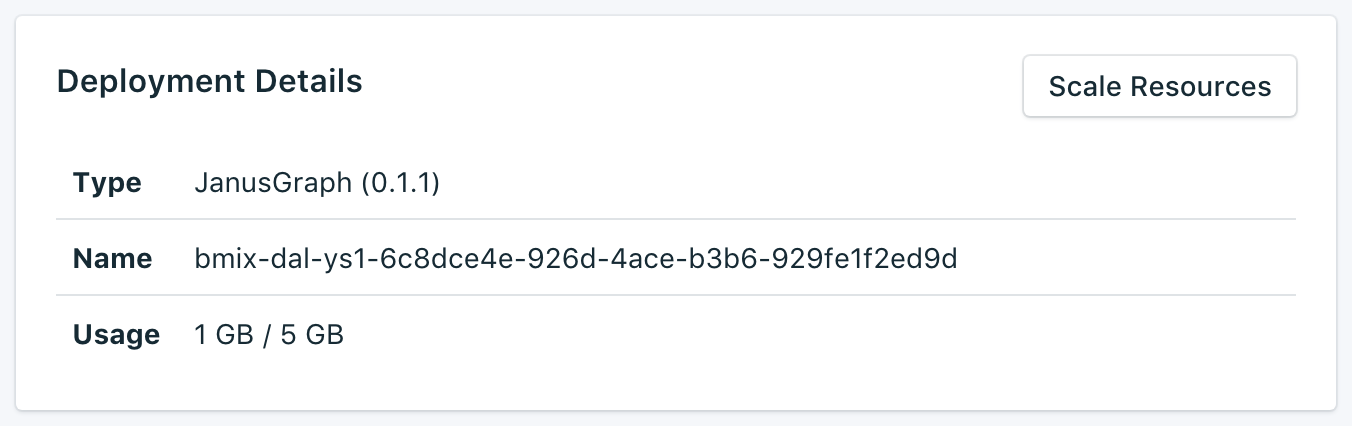
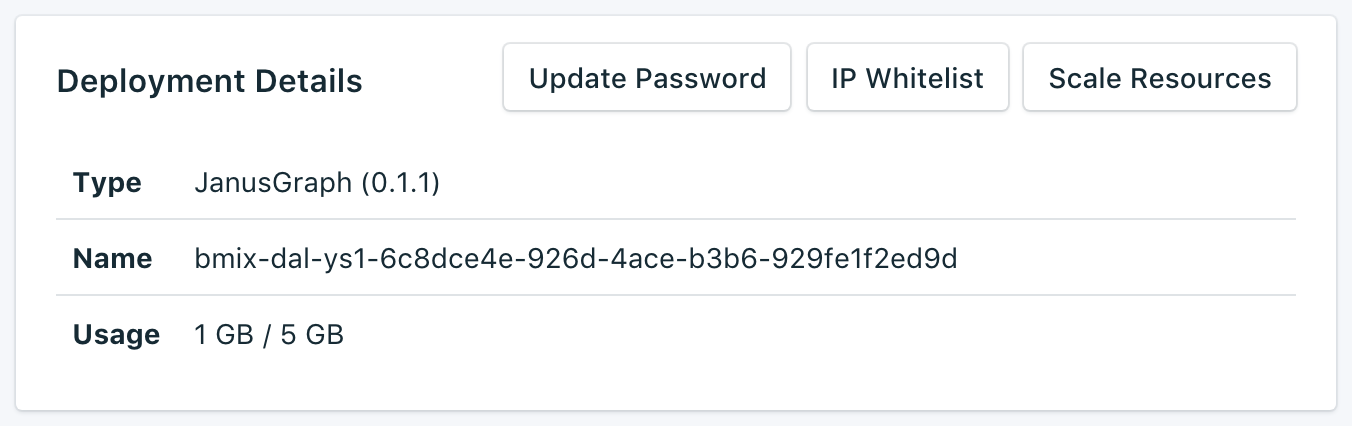
Oct 17 updates

Changed region(s): [[0.3728, 0.0915, 0.963, 0.2746], [0.3728, 0.1526, 0.7456, 0.2136]]

diff --git a/dashboard-whitelists.md b/dashboard-whitelists.md
@@ -1,0 +1,36 @@
+---
+
+Copyright:
+  Years: 2017
+lastupdated: "2017-10-16"
+---
+
+{:new_window: target="_blank"}
+{:shortdesc: .shortdesc}
+{:screen: .screen}
+{:codeblock: .codeblock}
+{:pre: .pre}
+
+# Whitelists
+
+If you want to restict access to your databases, you can whitelist specific ip addresses or ranges of ip addresses on your service. When there are no IP addresses in the whitelist, the whitelist is disabled and the deployment will accept connections from any system on the internet.
+
+![Whitelisting IPs](./images/janusgraph-whitelist-show.png "The whitelist fields.")
+
+## IP Addresses
+The *IP* field can take a single complete IPv4 address or IPv6 address with or without a netmask. Without a netmask, incoming connections must come from exactly that IP address. 
+
+Note that although the IP entry allows for IPv6, no Compose deployments are currently available to IPv6 networking and so these addresses cannot be filtered on.
+
+## Netmasks
+To allow a connection from a specified range of IP addresses, use a netmask. The IP address must be fully specified when using a netmask. That means entering, for example, 192.168.1.0/24 rather than 192.168.1/24.
+
+## Description
+The *Description* can be any user-significant text for identifying the whitelist entry - a customer name, project identifier or employee number, for example. The description field is required.
+
+## Compose Services
+We automatically add whitelist entries to Compose's servers to allow them to connect.
+
+## Removal
+To remove an IP address or netmask from the Whitelist, click the *Remove* entry displayed next to it.
+When all entries on the whitelist are removed, the whitelist will be disabled and all IP addresses will be accepted by the TCP access portals.

diff --git a/dashboard-update-service-password.md b/dashboard-update-service-password.md
@@ -1,0 +1,30 @@
+---
+
+Copyright:
+  Years: 2017
+lastupdated: "2017-10-16"
+---
+
+{:new_window: target="_blank"}
+{:shortdesc: .shortdesc}
+{:screen: .screen}
+{:codeblock: .codeblock}
+{:pre: .pre}
+
+# Updating the Service Password
+
+You might find it necessary to change the password of your service. You can do so using _Update Password_. 
+
+A new, randomly generated password will appear, or you can type your own password into the field. To regenerate another password, click on the dice to the right of the field. 
+  
+![Updating the etcd password](./images/janusgraph-update-password.png "The automatic password generator")
+
+The changes take effect when you click on the **Update Password** button. This will change the credentials that you and your services use to connect and is a part of your service's connection string. The _Deployment Details_ pane will show the progress of the job that is now in progress:
+
+![Update password job running](./images/janusgraph-update-password-running.png "The Deployment Details pane, showing one running job: Change JanusGraph password running")
+
+## Updating Connected Applications
+Changing the password will invalidate the existing connection string and generate a new one. This will cause a service interruption until connected applications are updated with the new connection string. You will have to do this by suppling the new connection string to your applications.
+
+More information on connecting your applications is in [Connecting a Bluemix Application](./connecting-bluemix-app.html).
+and [Connecting an external application](./connecting-external.html).

diff --git a/dashboard-backups.md b/dashboard-backups.md
@@ -2,7 +2,7 @@
 
 copyright:
   years: 2017
-lastupdated: "2017-09-07"
+lastupdated: "2017-10-16"
 ---
 
 {:new_window: target="_blank"}
@@ -27,10 +27,12 @@ Daily backups of your database are automatically scheduled. To view your existin
 
   ![Available backups](./images/janusgraph-backups-show.png "A list of available backups, including a pending backup")
 
+Click on the corresponding row to expand the options for any available backup.
+  ![Backup Options](./images/janusgraph-backups-options.png "Options for a backup.") 
+
 ## Creating a manual backup
 
 As well as scheduled backups you can create a backup manually. To create a manual backup, follow the steps to view existing backups, then click **Back up now** above the list of available backups. A message is displayed to let you know that a backup has been initiated, and a 'pending' backup is added to the list of available backups.
 
-## Downloading a backup
-
-To download a backup, follow the steps to view existing backups, then click **Download** in the corresponding row for the backup you want to download.
+## Restoring a backup
+To restore a backup to a new service instance, follow the steps to view existing backups, then click in the corresponding row to expand the options for the backup you want to download. Click on the **Restore** button. A message is displayed to let you know that a restore has been initiated. The new service instance will automatically be named "janusgraph-restore-[timestamp]", and appears on your dashboard when provisioning starts.

diff --git a/index.md b/index.md
@@ -27,7 +27,7 @@ When you provision your service instance, you can choose the *Standard* or *Ente
 
 ## Managing Compose for JanusGraph
 
-You can manage your service from the service dashboard. Here you can find information about your Bluemix Compose database and how to connect to it. You can also manage your backups from the dashboard and allocate more resources for your service. For more information, see [Service Overview](./dashboard-overview.html), [Backups](./dashboard-backups.html), and [Scaling Resources](./dashboard-scaling-resources.html).
+You can manage your service from the service dashboard. Here you can find information about your Bluemix Compose database and how to connect to it. You can also manage your backups, allocate more resources for your service, use whitelists to restrict access to your databases, and reset the service password. For more information, see [Service Overview](./dashboard-overview.html), [Backups](./dashboard-backups.html), [Scaling Resources](./dashboard-scaling-resources.html), [Whitelists](./dashboard-whitelists.html), and [Updating the Service Password](./dashboard-update-service-password.html).
 
 ## Connecting to Compose for JanusGraph
 
